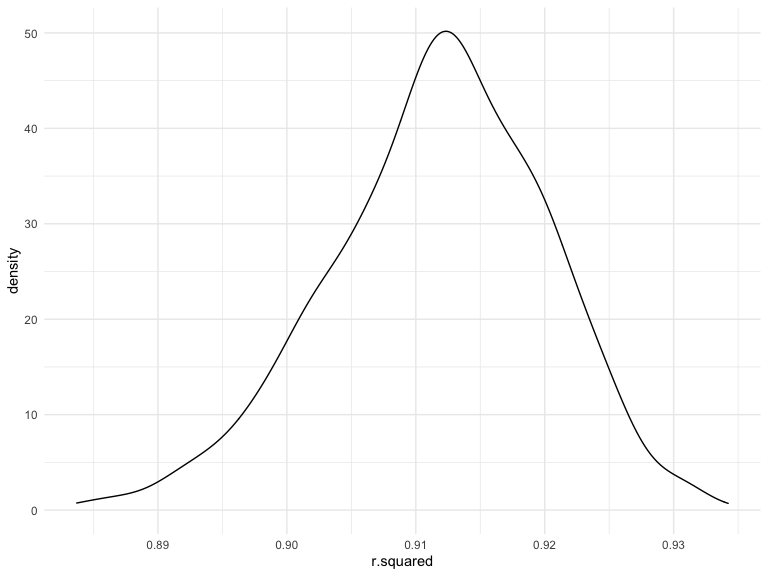
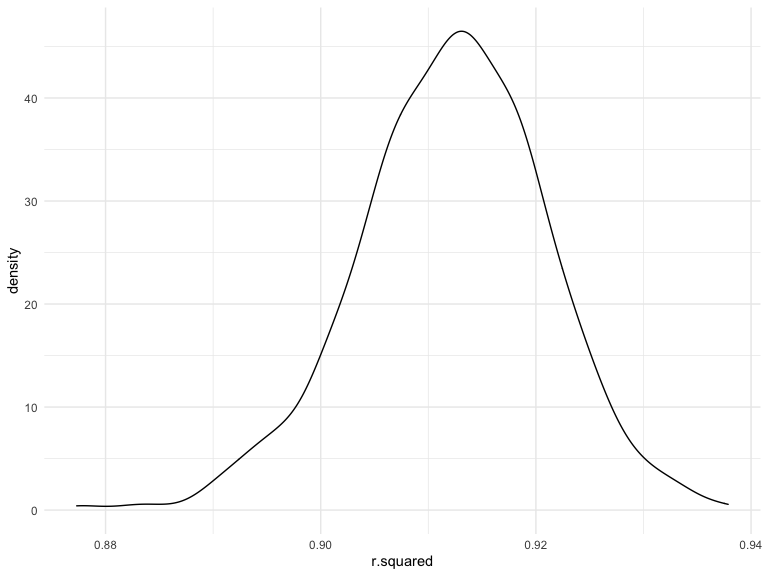
Change a parameter in cv function

diff --git a/p8105_hw6_jt3387.md b/p8105_hw6_jt3387.md
@@ -583,7 +583,7 @@ Modeling process:
 Model comparisons
 
 ``` r
-birthweight_cv <- crossv_mc(birthweight, 1000)
+birthweight_cv <- crossv_mc(birthweight, 100)
 
 birthweight_cv <- birthweight_cv %>% 
   mutate(mod1 = map(train, ~lm(bwt ~ babysex + bhead + blength + gaweeks + mheight + mrace + 
